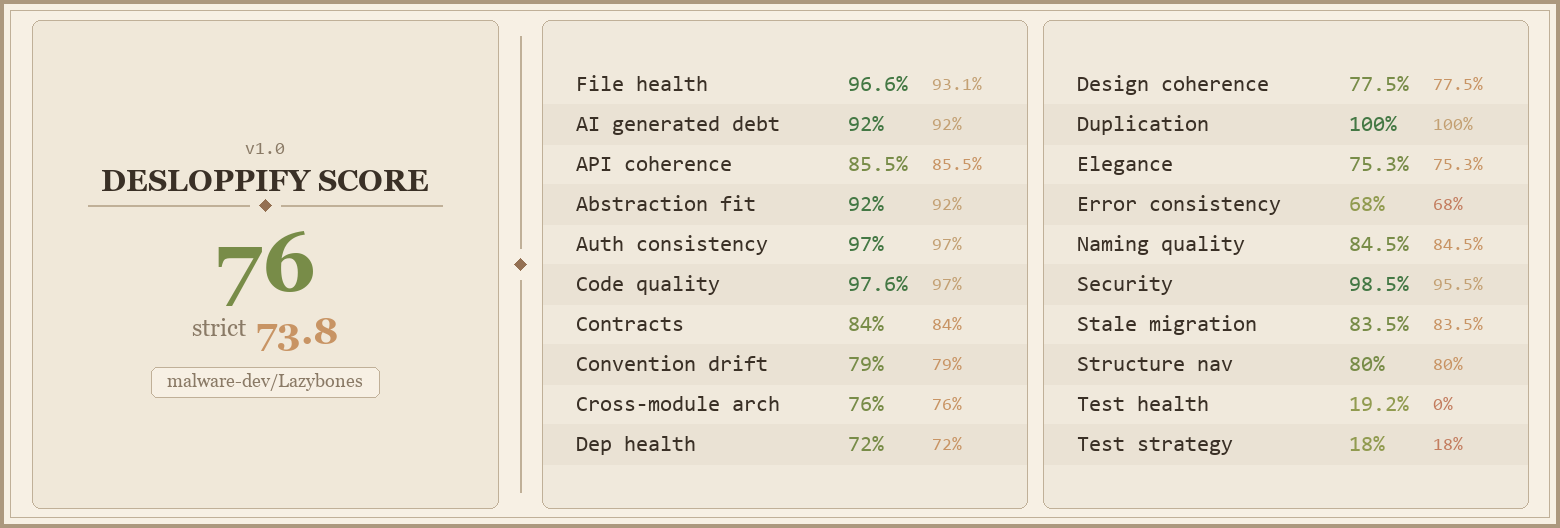
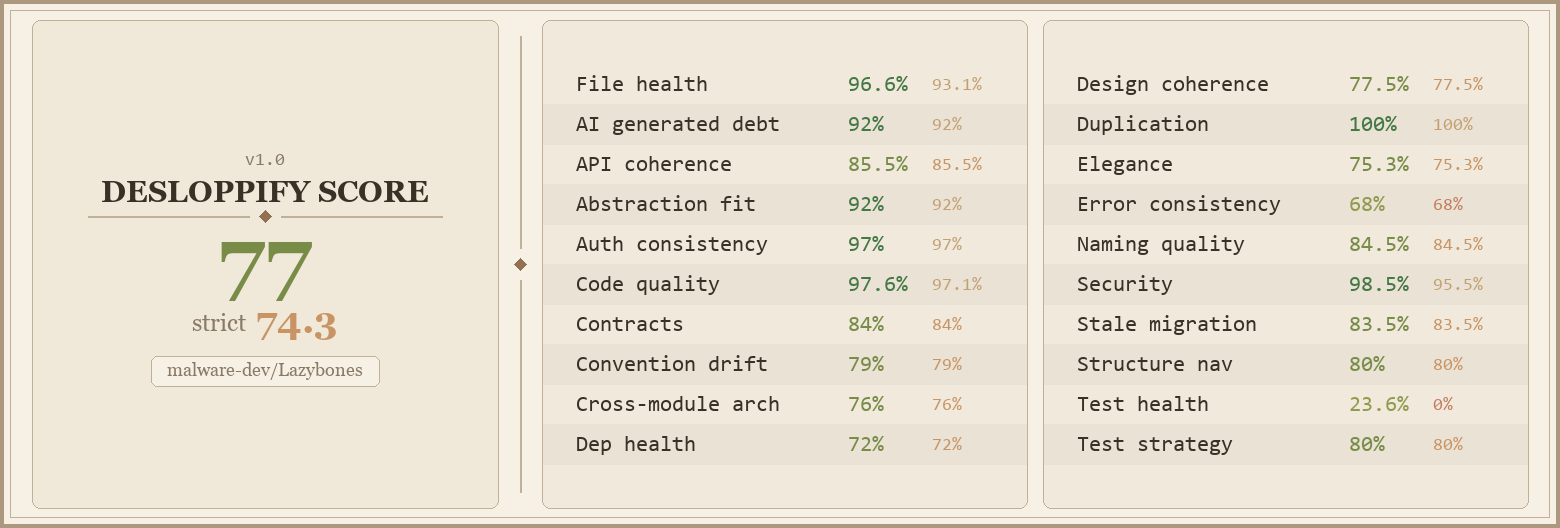
Test AppState, switch to dev. prefix, bump to v1.0.3
Three pieces shipping together.

AppState becomes testable without changing its existing callers:
- New public static LoadFrom(filePath) and instance SaveTo(filePath);
  the existing parameterless LoadState/SaveState delegate to them.
- New pure internal ResolveDataDir(customDirOverride, appDataRoot) that
  takes its environmental inputs as parameters. The Lazy<string> at
  module init wraps it with the real env / SpecialFolder lookups; tests
  call the pure method directly.
- Lazybones.csproj adds <InternalsVisibleTo Include="Lazybones.Tests"/>.
- Lazybones.Tests/Core/State/AppStateTests.cs (12 tests): defaults on
  missing/corrupt/empty state.json, full-fidelity round-trip,
  SaveTo creates missing directories with no .tmp leftover, the full
  ResolveDataDir matrix — custom override wins (even over appdata),
  empty override falls through, new-dir picked when neither exists,
  no-migration when new-dir already present, StandUp→Lazybones
  migration including file content carrying over.

macOS bundle identifier moves com → dev:
- com.malforge.lazybones → dev.malforge.lazybones in Lazybones.csproj
  CFBundleIdentifier and in release.yml --bundleId (both osx-arm64 and
  osx-x64 matrix rows).
- MacStartupService.Label updated. The legacy-plist cleanup now walks
  a list LegacyLabels[] holding every previously-shipped/considered
  id (com.malforge.standup, com.malforge.lazybones) so users from any
  prior version end up registered under the current label after one
[…]

diff --git a/Lazybones.Tests/Core/State/AppStateTests.cs b/Lazybones.Tests/Core/State/AppStateTests.cs
@@ -1,0 +1,176 @@
+using System;
+using System.IO;
+using Lazybones.Core.State;
+using Xunit;
+
+namespace Lazybones.Tests.Core.State;
+
+public class AppStateTests : IDisposable
+{
+    private readonly string _tempDir;
+    private readonly string _filePath;
+
+    public AppStateTests()
+    {
+        _tempDir = Path.Combine(Path.GetTempPath(), "Lazybones.Tests.AppState", Guid.NewGuid().ToString("N"));
+        Directory.CreateDirectory(_tempDir);
+        _filePath = Path.Combine(_tempDir, "state.json");
+    }
+
+    public void Dispose()
+    {
+        try { Directory.Delete(_tempDir, recursive: true); } catch { /* best-effort */ }
+    }
+
+    [Fact]
+    public void LoadFrom_returns_defaults_when_file_missing()
+    {
+        var state = AppState.LoadFrom(_filePath);
+
+        Assert.True(state.IsRunning);
+        Assert.False(state.IsStanding);
+        Assert.Equal(30, state.StandingTimeInMinutes);
+        Assert.Equal(120, state.SittingTimeInMinutes);
+        Assert.Equal(3, state.DailyCycleGoal);
+        Assert.False(state.HasAskedAboutStartup);
+        Assert.False(state.StartWithWindows);
+        Assert.Empty(state.UnlockedAchievementIds);
+    }
+
+    [Fact]
+    public void LoadFrom_returns_defaults_when_json_corrupt()
+    {
+        File.WriteAllText(_filePath, "{ not valid json");
+        var state = AppState.LoadFrom(_filePath);
+        Assert.True(state.IsRunning); // matches the default ctor
+    }
+
+    [Fact]
+    public void LoadFrom_returns_defaults_when_file_empty()
+    {
+        File.WriteAllText(_filePath, "");
+        var state = AppState.LoadFrom(_filePath);
+        Assert.True(state.IsRunning);
+    }
+
+    [Fact]
+    public void Round_trip_preserves_all_fields()
+    {
+        var original = new AppState
+        {
+            Left = 100,
+            Top = 200,
+            IsRunning = false,
+            ElapsedTimeInSeconds = 1234,
+            IsStanding = true,
+            StandingTimeInMinutes = 25,
+            SittingTimeInMinutes = 75,
+            DailyCycleGoal = 5,
+            HasAskedAboutStartup = true,
+            StartWithWindows = true,
+            UnlockedAchievementIds = new() { "first_stand", "quick_draw" }
+        };
+
+        original.SaveTo(_filePath);
+        var loaded = AppState.LoadFrom(_filePath);
+
+        Assert.Equal(original.Left, loaded.Left);
+        Assert.Equal(original.Top, loaded.Top);
+        Assert.Equal(original.IsRunning, loaded.IsRunning);
+        Assert.Equal(original.ElapsedTimeInSeconds, loaded.ElapsedTimeInSeconds);
+        Assert.Equal(original.IsStanding, loaded.IsStanding);
+        Assert.Equal(original.StandingTimeInMinutes, loaded.StandingTimeInMinutes);
+        Assert.Equal(original.SittingTimeInMinutes, loaded.SittingTimeInMinutes);
+        Assert.Equal(original.DailyCycleGoal, loaded.DailyCycleGoal);
+        Assert.Equal(original.HasAskedAboutStartup, loaded.HasAskedAboutStartup);
+        Assert.Equal(original.StartWithWindows, loaded.StartWithWindows);
+        Assert.Equal(original.UnlockedAchievementIds, loaded.UnlockedAchievementIds);
+    }
+
+    [Fact]
+    public void SaveTo_creates_missing_directories()
+    {
+        var nestedPath = Path.Combine(_tempDir, "nested", "deeper", "state.json");
+        new AppState { IsStanding = true }.SaveTo(nestedPath);
+        Assert.True(File.Exists(nestedPath));
+    }
+
+    [Fact]
+    public void SaveTo_overwrites_existing_file_atomically_without_temp_leftover()
+    {
+        new AppState { DailyCycleGoal = 1 }.SaveTo(_filePath);
+        new AppState { DailyCycleGoal = 9 }.SaveTo(_filePath);
+
+        var loaded = AppState.LoadFrom(_filePath);
+        Assert.Equal(9, loaded.DailyCycleGoal);
+        Assert.False(File.Exists(_filePath + ".tmp"));
+    }
+
+    [Fact]
+    public void ResolveDataDir_uses_custom_override_when_set()
+    {
+        var custom = Path.Combine(_tempDir, "custom-dir");
+        var result = AppState.ResolveDataDir(custom, appDataRoot: "/unused");
+        Assert.Equal(custom, result);
+    }
+
+    [Fact]
+    public void ResolveDataDir_uses_custom_override_even_when_appdata_is_present()
+    {
+        var custom = Path.Combine(_tempDir, "custom");
+        var appData = Path.Combine(_tempDir, "appdata");
+        Directory.CreateDirectory(Path.Combine(appData, "Malforge", "Lazybones"));
+
+        Assert.Equal(custom, AppState.ResolveDataDir(custom, appData));
+    }
+
+    [Fact]
+    public void ResolveDataDir_picks_new_dir_when_neither_exists_yet()
+    {
+        var appData = Path.Combine(_tempDir, "appdata");
+        var newDir = Path.Combine(appData, "Malforge", "Lazybones");
+        var result = AppState.ResolveDataDir(null, appData);
+        Assert.Equal(newDir, result);
+    }
+
+    [Fact]
+    public void ResolveDataDir_picks_new_dir_when_new_dir_already_exists_no_migration()
+    {
+        var appData = Path.Combine(_tempDir, "appdata");
+        var newDir = Path.Combine(appData, "Malforge", "Lazybones");
+        var oldDir = Path.Combine(appData, "Malforge", "StandUp");
+        Directory.CreateDirectory(newDir);
+        Directory.CreateDirectory(oldDir);
+
+        var result = AppState.ResolveDataDir(null, appData);
+
+        Assert.Equal(newDir, result);
+        Assert.True(Directory.Exists(oldDir), "Old dir must not be touched when new dir already exists.");
+    }
+
+    [Fact]
+    public void ResolveDataDir_migrates_old_dir_to_new_when_only_old_exists()
+    {
+        var appData = Path.Combine(_tempDir, "appdata");
+        var newDir = Path.Combine(appData, "Malforge", "Lazybones");
+        var oldDir = Path.Combine(appData, "Malforge", "StandUp");
+        Directory.CreateDirectory(oldDir);
+        File.WriteAllText(Path.Combine(oldDir, "history.jsonl"), "marker");
+
+        var result = AppState.ResolveDataDir(null, appData);
+
+        Assert.Equal(newDir, result);
+        Assert.True(Directory.Exists(newDir));
+        Assert.False(Directory.Exists(oldDir));
+        Assert.Equal("marker", File.ReadAllText(Path.Combine(newDir, "history.jsonl")));
+    }
+
+    [Fact]
+    public void ResolveDataDir_empty_override_falls_through_to_appdata_resolution()
+    {
+        var appData = Path.Combine(_tempDir, "appdata");
+        var newDir = Path.Combine(appData, "Malforge", "Lazybones");
+
+        Assert.Equal(newDir, AppState.ResolveDataDir("", appData));
+    }
+}

diff --git a/Lazybones/Core/State/AppState.cs b/Lazybones/Core/State/AppState.cs
@@ -8,10 +8,15 @@ namespace Lazybones.Core.State;
 
 public class AppState
 {
-    public static AppState LoadState()
-    {
-        var filePath = GetFilePath();
+    public static AppState LoadState() => LoadFrom(GetFilePath());
 
+    /// <summary>
+    /// Load AppState from an arbitrary file path. Returns a fresh AppState when the file
+    /// is missing, malformed JSON, or unreadable due to permissions — startup never blocks
+    /// on a corrupt state file.
+    /// </summary>
+    public static AppState LoadFrom(string filePath)
+    {
         if (!File.Exists(filePath))
             return new AppState();
 
@@ -22,9 +27,6 @@ public class AppState
         }
         catch (Exception ex) when (ex is JsonException or IOException or UnauthorizedAccessException)
         {
-            // Corrupt or unreadable state.json — start fresh rather than refusing
-            // to launch. Atomic-replace in SaveState ensures the next successful
-            // save restores a valid file.
             return new AppState();
         }
     }
@@ -45,16 +47,20 @@ public class AppState
     public bool StartWithWindows { get; set; }
     public List<string> UnlockedAchievementIds { get; set; } = new();
 
-    public void SaveState()
+    public void SaveState() => SaveTo(GetFilePath());
+
+    /// <summary>
+    /// Save AppState to an arbitrary file path via a temp file + atomic replace so a crash
+    /// mid-write can't leave a half-written file that fails to deserialize. Best-effort:
+    /// I/O errors are swallowed so a failed save on tick or shutdown won't crash the app.
+    /// </summary>
+    public void SaveTo(string filePath)
     {
-        var filePath = GetFilePath();
         try
         {
             Directory.CreateDirectory(Path.GetDirectoryName(filePath) ?? string.Empty);
             var json = JsonSerializer.Serialize(this, AppStateJsonContext.Default.AppState);
 
-            // Write to a temp file then atomically replace, so a crash mid-write
-            // can't leave a half-written state.json that fails to deserialize.
             var tempPath = filePath + ".tmp";
             File.WriteAllText(tempPath, json);
             if (File.Exists(filePath))
@@ -64,28 +70,30 @@ public class AppState
         }
         catch (Exception ex) when (ex is IOException or UnauthorizedAccessException)
         {
-            // Best-effort: a failed save on tick or shutdown shouldn't crash the
-            // app. The next successful save will catch up; in the meantime the
-            // in-memory state is still authoritative for the running session.
+            // In-memory state remains authoritative for the running session;
+            // the next successful save catches up.
         }
     }
 
-    private static string GetFilePath()
-    {
-        return Path.Combine(GetDataDir(), "state.json");
-    }
+    private static string GetFilePath() => Path.Combine(GetDataDir(), "state.json");
 
-    private static readonly Lazy<string> _dataDir = new(ResolveDataDir);
+    private static readonly Lazy<string> _dataDir = new(() => ResolveDataDir(
+        Environment.GetEnvironmentVariable("LAZYBONES_DATA_DIR"),
+        Environment.GetFolderPath(Environment.SpecialFolder.ApplicationData)));
+
     internal static string GetDataDir() => _dataDir.Value;
 
-    private static string ResolveDataDir()
+    /// <summary>
+    /// Pure data-directory resolver — takes its environmental inputs as parameters so it
+    /// can be tested directly without poking process-wide state. The Lazy wrapper above
+    /// captures real env/SpecialFolder at first call; tests reach this method directly.
+    /// </summary>
+    internal static string ResolveDataDir(string? customDirOverride, string appDataRoot)
     {
-        var custom = Environment.GetEnvironmentVariable("LAZYBONES_DATA_DIR");
-        if (!string.IsNullOrEmpty(custom)) return custom;
+        if (!string.IsNullOrEmpty(customDirOverride)) return customDirOverride;
 
-        var appData = Environment.GetFolderPath(Environment.SpecialFolder.ApplicationData);
-        var newDir = Path.Combine(appData, "Malforge", "Lazybones");
-        var oldDir = Path.Combine(appData, "Malforge", "StandUp");
+        var newDir = Path.Combine(appDataRoot, "Malforge", "Lazybones");
+        var oldDir = Path.Combine(appDataRoot, "Malforge", "StandUp");
 
         // One-time migration from the project's previous name. Lazy<T>'s
         // initializer fires exactly once per process under a lock, so the
@@ -99,9 +107,8 @@ public class AppState
             }
             catch (Exception ex) when (ex is IOException or UnauthorizedAccessException)
             {
-                // If the move fails (permissions, file locked) fall back to the
-                // old location so the user doesn't lose access to their history.
-                // The next launch will try again.
+                // Permissions / file-lock — fall back to the legacy location so the user
+                // doesn't lose access to their history. The next launch will try again.
                 return oldDir;
             }
         }

diff --git a/Lazybones/Features/StartAtLogin/MacStartup.cs b/Lazybones/Features/StartAtLogin/MacStartup.cs
@@ -7,28 +7,50 @@ namespace Lazybones.Features.StartAtLogin;
 [SupportedOSPlatform("macos")]
 internal sealed class MacStartupService : IStartupService
 {
-    private const string Label = "com.malforge.lazybones";
-    private const string LegacyLabel = "com.malforge.standup";
+    private const string Label = "dev.malforge.lazybones";
+
+    // Bundle identifiers we've shipped (or considered shipping) previously.
+    // SetEnabled removes any plist using these labels on every call so users
+    // upgrading from any prior identifier end up registered under the current
+    // Label only. IsEnabled treats either current or any legacy plist as
+    // "enabled" so the toggle correctly reflects existing-install state.
+    private static readonly string[] LegacyLabels =
+    {
+        "com.malforge.standup",  // pre-rename (project's previous name)
+        "com.malforge.lazybones" // pre-prefix-change (com → dev)
+    };
 
     private static readonly string LaunchAgentsDir = Path.Combine(
         Environment.GetFolderPath(Environment.SpecialFolder.UserProfile),
         "Library", "LaunchAgents");
 
     private static readonly string PlistPath = Path.Combine(LaunchAgentsDir, $"{Label}.plist");
-    private static readonly string LegacyPlistPath = Path.Combine(LaunchAgentsDir, $"{LegacyLabel}.plist");
+
+    private static string LegacyPlistPath(string label) =>
+        Path.Combine(LaunchAgentsDir, $"{label}.plist");
 
     public string LoginItemLabel => "Open at login";
 
-    public bool IsEnabled => File.Exists(PlistPath) || File.Exists(LegacyPlistPath);
+    public bool IsEnabled
+    {
+        get
+        {
+            if (File.Exists(PlistPath)) return true;
+            foreach (var label in LegacyLabels)
+                if (File.Exists(LegacyPlistPath(label))) return true;
+            return false;
+        }
+    }
 
     public bool SetEnabled(bool enabled)
     {
         try
         {
-            // Always remove the legacy "com.malforge.standup" plist — its
-            // identifier doesn't match the bundle id of the current build.
-            if (File.Exists(LegacyPlistPath))
-                File.Delete(LegacyPlistPath);
+            foreach (var label in LegacyLabels)
+            {
+                var legacy = LegacyPlistPath(label);
+                if (File.Exists(legacy)) File.Delete(legacy);
+            }
 
             if (enabled)
             {